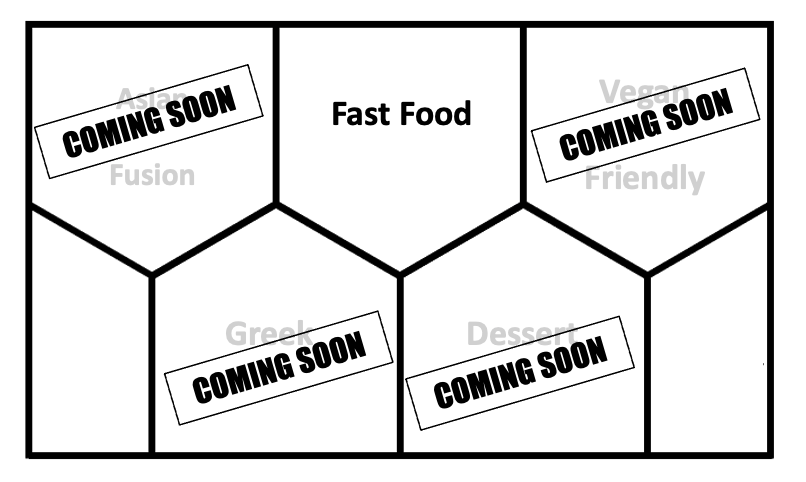
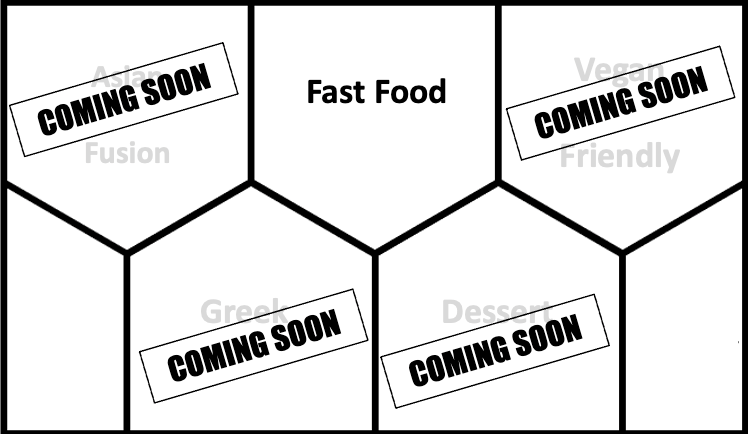
restaurant categories

Changed region(s): [[0.0, 0.0, 1.0, 1.0], [0.3997, 0.1797, 0.615, 0.2696]]

diff --git a/categories.html b/categories.html
@@ -10,10 +10,33 @@
     <h1 style ="font-weight: bold; color: black">Restaurant Categories</h1>
 </div>
 
-<div id = "categories">
-    <img src = "categories1.png" width = "806" height = "482">
+<div id = "category-buttons">
+    <div id = "up">
+        <img src = "up.png" width = "150" height = "100">
+    </div>
+
+    <div id = "categories">
+        
+        <img src="categories1.png" usemap="#image-map">
+
+        <map name="image-map">
+            <area target="" alt="" title="" href="" coords="7,5,246,5,249,179,125,249,7,181" shape="poly">
+            <area target="" alt="" title="" href="" coords="255,7,494,5,493,178,373,248,253,180" shape="poly">
+            <area target="" alt="" title="" href="" coords="500,6,741,5,740,178,623,248,501,180" shape="poly">
+            <area target="" alt="" title="" href="" coords="251,187,129,257,130,427,370,430,369,255" shape="poly">
+            <area target="" alt="" title="" href="" coords="497,186,379,255,378,429,617,427,618,255" shape="poly">
+        </map>
+    </div>
+ 
+
+    <div id = "down">
+        <img src = "down.png" width = "150" height = "100">
+    </div>
+
   </div>
 
+
+</div>
 <div id = "cart">
   <img src = "Cart.png" width = "150" height = "100">
 </div>

diff --git a/milestone_3.css b/milestone_3.css
@@ -72,8 +72,22 @@ div.absolute{
 }
 
 #categories{
-    position: relative;
+    position: absolute;
     text-align: center;
+}
+
+#div.categories-buttons{
+    position: relative;
+}
+
+#up{
+    position: absolute;
+   float:right;
+}
+#down{
+    position: absolute;
+    float: right;
+    
 }
 
 #message{
